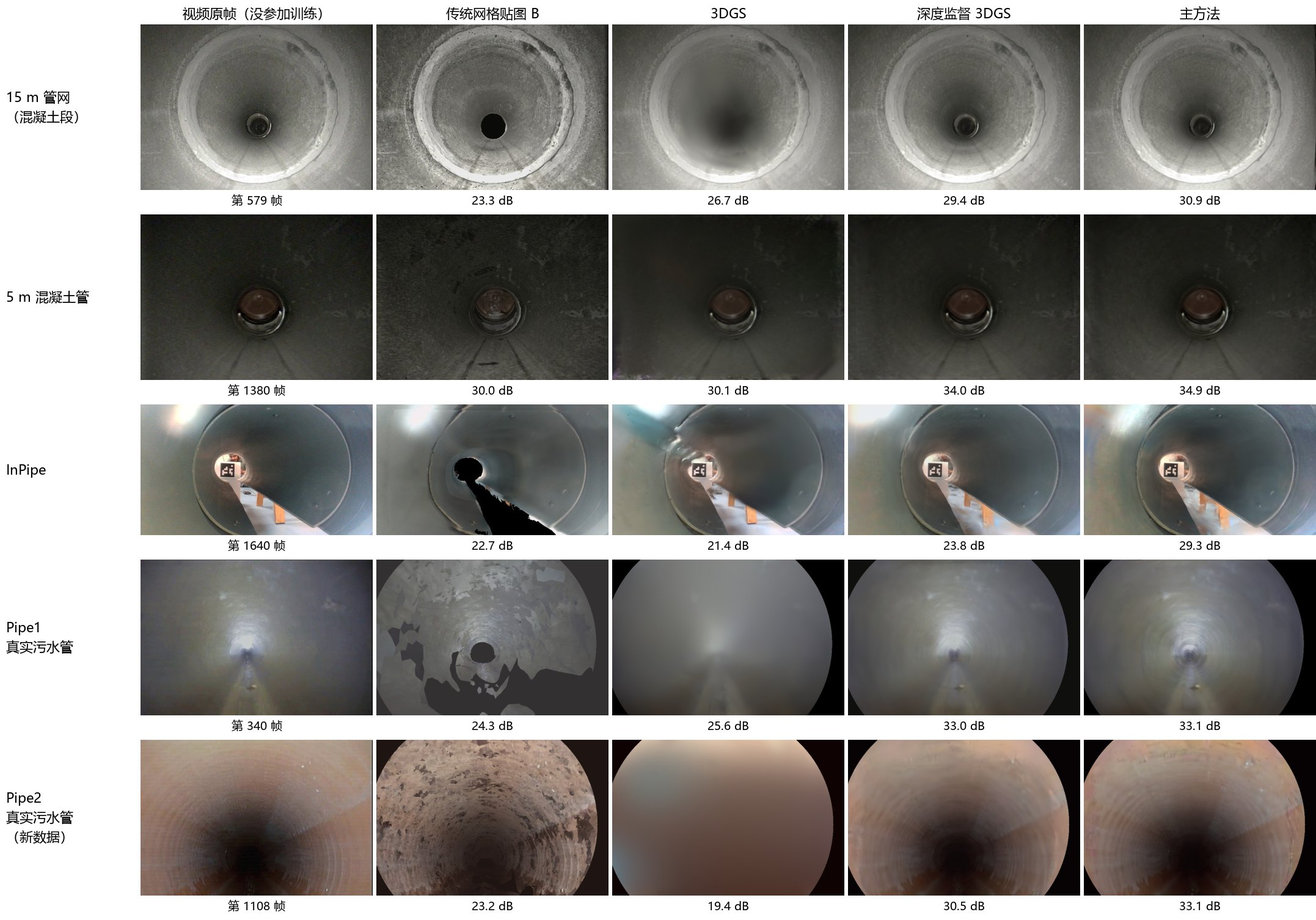
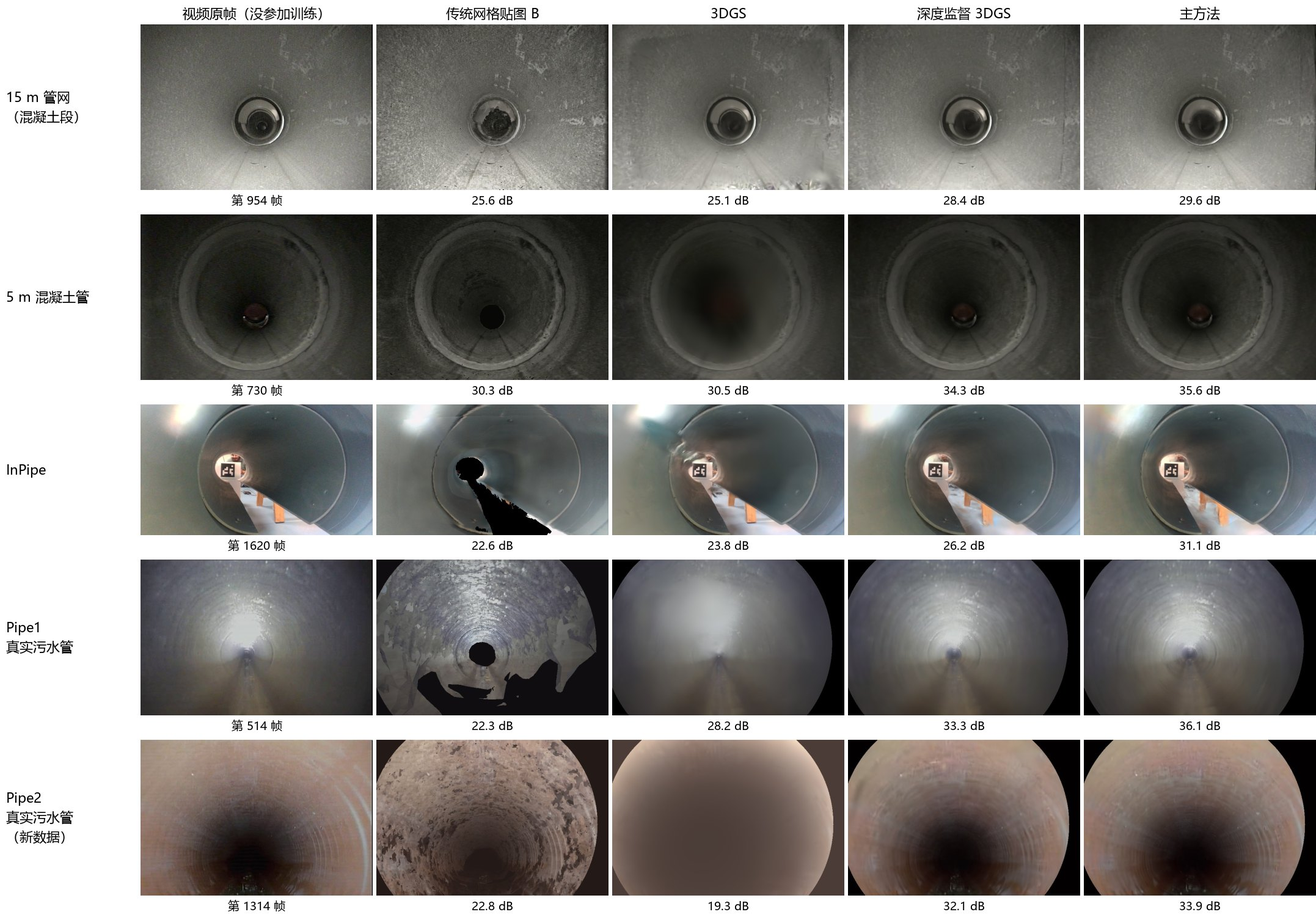
核对公开文档：数字逐项对照原始结果文件；改正训练时间与显存、去掉未实测的“实时渲染”、几何标志位置的标准差、补 5 m 管参照值；对比图改用同一次量尺 v2 评分的导出图，附图的来源说明与生成脚本

diff --git a/pipesplat/review/fig_compare_blocks.py b/pipesplat/review/fig_compare_blocks.py
@@ -1,0 +1,101 @@
+"""README figure docs/images/compare_blocks.jpg: for each data set one block frame (inside a 10 cm stretch left out of
+training, so no model saw a frame within 10 cm), shown as video | baseline B | 3DGS | depth-supervised 3DGS | main
+method, each labelled with its PSNR.
+
+The pictures are the scored images themselves: the dumps of a ruler-v2 scoring run (train_gs.py --eval-only --dump DIR
+--suffix _dump1102, every render with the gain / offset the scoring fitted), and the labels are the PSNR of that same
+run (DIR/per_frame_dump1102.csv). The frame of a data set is the block frame whose main - 3DGS PSNR gain is closest to
+the median gain over all block frames of that data set - a rule, not a choice. The script also reports how far the
+dumped scores are from the stored training-end scores (per_frame_r2.csv) and writes the selection to OUT_selection.txt.
+
+usage: python -I pipesplat/review/fig_compare_blocks.py OUT.jpg [--dump-root DIR] [--scene-root DATA=DIR ...]
+       --dump-root   DIR/<data>/<run>/ holds the dumps and per_frame_dump1102.csv (default GS_ROOT/review/figdump)
+       --scene-root  where <data>/<run>/per_frame_r2.csv is, per data set (default GS_ROOT/g0)
+"""
+import argparse
+import csv
+import os
+import sys
+
+import cv2
+import numpy as np
+from PIL import Image, ImageDraw, ImageFont
+
+sys.path.insert(0, os.path.join(os.path.dirname(os.path.dirname(os.path.dirname(os.path.abspath(__file__)))), "scripts"))
+import paths  # noqa: E402
+
+ROWS = [("15 m 管网|（混凝土段）", "concrete_lab", "run_3dgs", "run_3dgs_depth", "run_3dgs_depth_lamp_amb"),
+        ("5 m 混凝土管", "concrete_2", "run_3dgs", "run_3dgs_depth", "run_3dgs_depth_lamp_amb"),
+        ("InPipe", "inpipe_vision", "run_3dgs", "run_u_3dgs_depth", "run_u_3dgs_depth_lamp_amb"),
+        ("Pipe1|真实污水管", "sewer_pipe1", "run_3dgs", "run_u_3dgs_depth", "run_u_3dgs_depth_lamp_amb"),
+        ("Pipe2|真实污水管|（新数据）", "sewer_pipe2", "run_3dgs", "run_3dgs_depth", "run_main")]
+COLS = ["视频原帧（没参加训练）", "传统网格贴图 B", "3DGS", "深度监督 3DGS", "主方法"]
+PW, LW = 380, 230
+FONT = ImageFont.truetype("C:/Windows/Fonts/msyh.ttc", 22)
+FONT_S = ImageFont.truetype("C:/Windows/Fonts/msyh.ttc", 19)
+
+
+def table(path):
+    return {(r["tag"], int(r["frame"])): r for r in csv.DictReader(open(path, encoding="utf-8"))}
+
+
+def read(path):
+    return cv2.imdecode(np.fromfile(path, np.uint8), cv2.IMREAD_COLOR)
+
+
+def main():
+    ap = argparse.ArgumentParser(description=__doc__.split("\n")[0])
+    ap.add_argument("out")
+    ap.add_argument("--dump-root", default=os.path.join(paths.GS_ROOT, "review", "figdump"))
+    ap.add_argument("--scene-root", nargs="*", default=[], metavar="DATA=DIR")
+    a = ap.parse_args()
+    roots = dict(s.split("=", 1) for s in a.scene_root)
+    rows_img, report = [], []
+    for label, data, *runs in ROWS:
+        dumps = [os.path.join(a.dump_root, data, r) for r in runs]
+        tabs = [table(os.path.join(d, "per_frame_dump1102.csv")) for d in dumps]
+        for r, t in zip(runs, tabs):                 # the re-score must equal the stored training-end scores
+            stored = table(os.path.join(roots.get(data, os.path.join(paths.GS_ROOT, "g0")), data, r, "per_frame_r2.csv"))
+            diff = max(abs(float(t[k]["G_psnr"]) - float(stored[k]["G_psnr"])) for k in t if k in stored)
+            report.append(f"{data}/{r}: max |PSNR dump - stored| = {diff:.2e} dB over {len(t)} frames")
+        frames = sorted(f for (tag, f) in tabs[0] if tag == "block")
+        gains = np.array([float(tabs[2][("block", f)]["G_psnr"]) - float(tabs[0][("block", f)]["G_psnr"]) for f in frames])
+        fr = frames[int(np.argmin(np.abs(gains - np.median(gains))))]
+        panels = [read(os.path.join(dumps[0], f"block_{fr:06d}_real.jpg")), read(os.path.join(dumps[0], f"block_{fr:06d}_B.jpg"))]
+        panels += [read(os.path.join(d, f"block_{fr:06d}_G.jpg")) for d in dumps]
+        h = int(round(panels[0].shape[0] * PW / panels[0].shape[1]))
+        panels = [cv2.resize(p, (PW, h), interpolation=cv2.INTER_AREA) for p in panels]
+        texts = [f"第 {fr} 帧", f"{float(tabs[0][('block', fr)]['B_psnr']):.1f} dB"] + \
+                [f"{float(t[('block', fr)]['G_psnr']):.1f} dB" for t in tabs]
+        canvas = Image.new("RGB", (5 * PW + 4 * 6 + LW, h + 30), "white")
+        d = ImageDraw.Draw(canvas)
+        lines = label.split("|")                    # "|" separates the lines of a row label
+        for k_, ln in enumerate(lines):
+            d.text((10, h // 2 - 16 * len(lines) + 32 * k_), ln, font=FONT, fill="black")
+        for k, (p, t) in enumerate(zip(panels, texts)):
+            x = LW + k * (PW + 6)
+            canvas.paste(Image.fromarray(cv2.cvtColor(p, cv2.COLOR_BGR2RGB)), (x, 0))
+            d.text((x + PW // 2 - d.textlength(t, font=FONT_S) / 2, h + 3), t, font=FONT_S, fill="black")
+        rows_img.append(canvas)
+        report.append(f"{data}: {len(frames)} block frames, chose frame {fr}: main - 3DGS {gains[frames.index(fr)]:+.2f} dB "
+                      f"(median over the block frames {np.median(gains):+.2f}); B / 3DGS / depth / main = {', '.join(texts[1:])}")
+    W = rows_img[0].width
+    head = Image.new("RGB", (W, 40), "white")
+    dh = ImageDraw.Draw(head)
+    for k, c in enumerate(COLS):
+        x = LW + k * (PW + 6)
+        dh.text((x + PW // 2 - dh.textlength(c, font=FONT) / 2, 6), c, font=FONT, fill="black")
+    fig = Image.new("RGB", (W, 40 + sum(r.height + 10 for r in rows_img)), "white")
+    fig.paste(head, (0, 0))
+    y = 40
+    for r in rows_img:
+        fig.paste(r, (0, y))
+        y += r.height + 10
+    fig.save(a.out, quality=86, optimize=True)
+    report.append(f"{os.path.basename(a.out)}: {fig.size[0]} x {fig.size[1]} px, {os.path.getsize(a.out) // 1024} KB")
+    open(os.path.splitext(a.out)[0] + "_selection.txt", "w", encoding="utf-8").write("\n".join(report) + "\n")
+    print("\n".join(report))
+
+
+if __name__ == "__main__":
+    main()

diff --git a/pipesplat/review/fig_models_outside.py b/pipesplat/review/fig_models_outside.py
@@ -1,0 +1,79 @@
+"""README figure docs/images/models_outside.jpg: the textured meshes baked from the main model (bake_vhf.py --two-light
+--source video), one row per data set: the whole pipe from outside (whole.png), a cut-open close-up (detail1.png) and a
+view from inside (inside0.png) - the per-view pictures written by pipe_figures.py.
+
+usage: python -I pipesplat/review/fig_models_outside.py OUT.jpg --fig-dir DATA=DIR [--fig-dir DATA=DIR ...]
+       DATA one of concrete_lab, concrete_2, inpipe, sewer_pipe1, sewer_pipe2 (rows in this order, missing ones left out);
+       DIR  the pipe_figures.py output folder of that data set
+"""
+import argparse
+import os
+
+import cv2
+import numpy as np
+from PIL import Image, ImageDraw, ImageFont
+
+ROWS = [("concrete_lab", "15 m 管网（混凝土段，约 4.3 m）"),
+        ("concrete_2", "5 m 混凝土管（约 4.2 m）"),
+        ("inpipe", "InPipe（两节管 + 弯头，有开缝）"),
+        ("sewer_pipe1", "Pipe1 真实污水管（约 10.6 m）"),
+        ("sewer_pipe2", "Pipe2 真实污水管（新数据，约 3.9 m；喇叭形 = 单目尺度漂移）")]
+FONT = ImageFont.truetype("C:/Windows/Fonts/msyh.ttc", 24)
+W1, W2, W3, H = 1000, 640, 640, 470
+
+
+def crop_white(img, pad=20):
+    """trim the white margin around the rendered pipe"""
+    ys, xs = np.nonzero(np.any(img < 245, axis=2))
+    return img if len(ys) == 0 else img[max(ys.min() - pad, 0):ys.max() + pad, max(xs.min() - pad, 0):xs.max() + pad]
+
+
+def fit(img, w, h):
+    s = min(w / img.shape[1], h / img.shape[0])
+    im = cv2.resize(img, (int(img.shape[1] * s), int(img.shape[0] * s)), interpolation=cv2.INTER_AREA)
+    canvas = np.full((h, w, 3), 255, np.uint8)
+    y, x = (h - im.shape[0]) // 2, (w - im.shape[1]) // 2
+    canvas[y:y + im.shape[0], x:x + im.shape[1]] = im
+    return canvas
+
+
+def read(path):
+    return cv2.imdecode(np.fromfile(path, np.uint8), cv2.IMREAD_COLOR)
+
+
+def main():
+    ap = argparse.ArgumentParser(description=__doc__.split("\n")[0])
+    ap.add_argument("out")
+    ap.add_argument("--fig-dir", nargs="+", required=True, metavar="DATA=DIR")
+    a = ap.parse_args()
+    dirs = dict(s.split("=", 1) for s in a.fig_dir)
+    rows = []
+    for data, label in ROWS:
+        if data not in dirs:
+            continue
+        d = dirs[data]
+        gap = np.full((H, 20, 3), 255, np.uint8)
+        row = np.hstack([fit(crop_white(read(os.path.join(d, "whole.png"))), W1, H), gap,
+                         fit(crop_white(read(os.path.join(d, "detail1.png"))), W2, H), gap,
+                         fit(read(os.path.join(d, "inside0.png")), W3, H)])
+        img = Image.new("RGB", (row.shape[1], H + 44), "white")
+        ImageDraw.Draw(img).text((16, 6), label, font=FONT, fill="black")
+        img.paste(Image.fromarray(cv2.cvtColor(row, cv2.COLOR_BGR2RGB)), (0, 44))
+        rows.append(img)
+    head = Image.new("RGB", (rows[0].width, 44), "white")
+    dh = ImageDraw.Draw(head)
+    for x, t in ((W1 // 2, "带纹理网格：从管外看"), (W1 + 20 + W2 // 2, "剖开的局部（放大）"), (W1 + W2 + 40 + W3 // 2, "管内视角")):
+        dh.text((x - dh.textlength(t, font=FONT) / 2, 6), t, font=FONT, fill="black")
+    fig = Image.new("RGB", (rows[0].width, 44 + sum(r.height for r in rows)), "white")
+    fig.paste(head, (0, 0))
+    y = 44
+    for r in rows:
+        fig.paste(r, (0, y))
+        y += r.height
+    fig = fig.resize((fig.width * 3 // 4, fig.height * 3 // 4), Image.LANCZOS)
+    fig.save(a.out, quality=84, optimize=True)
+    print(a.out, fig.size, os.path.getsize(a.out) // 1024, "KB")
+
+
+if __name__ == "__main__":
+    main()

diff --git a/docs/MODEL.md b/docs/MODEL.md
@@ -17,7 +17,7 @@
 | | 内容 |
 |---|---|
 | 输入 | 一段管道视频；相机内参（棋盘格标定，或"等径直管 + 一段已知行程"标定）；可选：画面计数器 / 里程真值、管径 |
-| 输出 | 高斯模型 `model.pt`（任意位姿实时渲染）和通用 3DGS `.ply`；带纹理网格 OBJ（从管外看）；管壁展开图；管径 / 椭圆度沿程；每帧评分 |
+| 输出 | 高斯模型 `model.pt`（任意位姿渲染）和通用 3DGS `.ply`；带纹理网格 OBJ（从管外看）；管壁展开图；管径 / 椭圆度沿程；每帧评分 |
 | 代码 | 前端 `scripts/vision/`（Windows）；高斯部分 `pipesplat/`（WSL + CUDA）；一条命令跑完：`scripts/pipeline.py` |
 | 主方法的训练命令 | `train_gs.py SCENE OUT --baseline 3dgs --baseline-depth 1.0 --lamp --lamp-smooth-mm 20 --lamp-ambient` |
 
@@ -120,7 +120,7 @@ flowchart TB
 | 密度控制 | gsplat DefaultStrategy（克隆、分裂、剪枝），第 15 000 次迭代后停止；球谐阶数每 1000 次迭代升一阶，到 3 阶 | `strategy` |
 | 留出 | 两段 10 cm 的整段留出帧不参加训练（`block_idx`） | `train` |
 | 数值保护 | 非有限的损失跳过这一步，非有限的梯度置零，并计数写进日志 | 训练循环 |
-| 资源 | RTX 5060 Ti（8 GB）上每个模型 30–80 分钟，显存峰值 ≤ 约 4.5 GB；稠密点 > 2.5 M 时用 `--points-every 2` | — |
+| 资源 | RTX 5060 Ti（8 GB）上实测（`summary_r2.json` 的 `train_minutes`、`peak_GB`，3 万次迭代，不含载入和评分的几分钟）：主方法 24–63 分钟、显存峰值 2.8–5.6 GB（9 次训练）；3DGS 10–20 分钟；深度监督 3DGS 21–32 分钟；稠密点 > 2.5 M 时用 `--points-every 2` | — |
 
 **只用主体框架会怎样**（3 个种子，PSNR dB；四组测试的定义见 [EVALUATION.md](EVALUATION.md)）：
 
@@ -134,7 +134,7 @@ flowchart TB
 渲染深度错 21–27 %（15 m）、44–59 %（5 m）、InPipe 12 / 26 %、Pipe1 85 / 67 %（管内浮着一层"雾"）。
 贴着训练轨迹时画面很好，一离开轨迹就崩：相机只沿管轴前进，新视角只在训练轨迹附近受约束。
 
-**为什么用 3DGS 作主体**：高斯是显式的点，能直接从 MVS 点初始化、直接加深度监督和成像模型；训练 30–80 分钟、实时渲染；最常用的基线。
+**为什么用 3DGS 作主体**：高斯是显式的点，能直接从 MVS 点初始化、直接加深度监督和成像模型；主方法训练 24–63 分钟（本机）；3DGS 本身是为实时渲染设计的（Kerbl 等 2023），本项目没有专门测渲染速度；最常用的基线。
 插件与表示方式无关：锚定面元与 3DGS 只差约 0.1 dB，深度监督 2DGS 与深度监督 3DGS 同一水平，所以换主体框架不改变结论。
 
 ---
@@ -257,7 +257,7 @@ flowchart TB
 | 带纹理网格 OBJ | 管壁高度场网格（再按模型深度径向微调 ±5 mm）；每个纹素在最清楚的几帧里按"帧 = 增益 × (车灯因子 × 反照率 + 环境光) + 偏移"做最小二乘求反照率；`texture.png` = 典型车灯 × 反照率 + 环境光 | `pipesplat/bake_vhf.py --two-light --source video` | 比高斯模型低 5–10 dB（静态贴图装不下随相机走的车灯明暗）；从管外看用它，管内画质以高斯模型为准 |
 | 管壁展开图 D2 | 训练位姿渲染模型的 0 阶颜色（不乘车灯、不加曝光），在 1 mm 网格上多视角加权烘焙 | `pipesplat/albedo_map.py`、`review/albedo_compare.py` | 15 m 管网 4 次巡检各自训练，纹理 NCC 0.62–0.73，带车灯模型的 6 对全部更高 |
 | 效果图 | 整体、三视图、剖切、展开图、留出帧对照 | `pipesplat/review/pipe_figures.py` | `scripts/pipeline.py` 的 figures 阶段；例子见 [images/models_outside.jpg](images/models_outside.jpg)、[images/unwrapped_concrete_2.jpg](images/unwrapped_concrete_2.jpg) |
-| 几何 D3 | 每 5 cm 截面鲁棒圆拟合管径；圆内点再做 Fitzgibbon 直接最小二乘椭圆，椭圆度按 ASTM F1216 附录 X1；重复性按 ISO 5725 | `scripts/analysis/geometry_repeat.py` | 5 m 管 5 次独立重建：管径 309.6 ± 4.6 mm（标称 300），逐截面 s_r 8.2 mm，椭圆度 0.3–0.4 % |
+| 几何 D3 | 每 5 cm 截面鲁棒圆拟合管径；圆内点再做 Fitzgibbon 直接最小二乘椭圆，椭圆度按 ASTM F1216 附录 X1；重复性按 ISO 5725 | `scripts/analysis/geometry_repeat.py` | 5 m 管 5 次独立重建：各次管径中位数 305–315 mm（均值 309.6、标准差 4.6 mm；标称 300），逐截面 s_r 8.2 mm，椭圆度中位 0.32–0.41 % |
 | 多次巡检联合训练 D1 | 参考巡检之外再加一次巡检的帧一起训练 | `pipesplat/export_multi.py` | 巡检之间灯光不同时有益：15 m 管网在从未用过的巡检上 +0.36 / +0.24 dB（帧数相同的对照）；同档灯光只有其 25–60 %，5 m 管（同档灯光）为 0 |
 
 ---

diff --git a/README.md b/README.md
@@ -12,7 +12,7 @@
 1. **前端**：标定相机内参并固定 → OpenMVG 增量式 SfM 得到每帧位姿 → OpenMVS 得到稠密点云和"实测管壁"；
 2. **模型**：在这些位姿和管壁之上训练 **3D 高斯泼溅（3DGS）**，加两个可插拔模块：
    **稠密深度监督**（让几何对）和**近场照明模型**（车灯的平方反比 + Lambert 余弦 + 平场增益图 + 环境光项 + 每帧曝光，让明暗对）；
-3. **输出**：可在任意位姿实时渲染的高斯模型（通用 3DGS `.ply`）、从管外看的带纹理网格、管壁展开图、管径 / 椭圆度沿程；
+3. **输出**：可在任意位姿渲染的高斯模型（通用 3DGS `.ply`）、从管外看的带纹理网格、管壁展开图、管径 / 椭圆度沿程；
 4. **评测**：序列内留出帧、整段拿掉的 10 cm 管段、同一管道的其他次巡检（换灯光、换速度），所有方法在同一批像素上比较。
 
 这样的模型在离开训练轨迹、换一次巡检、换一档灯光时仍能预测画面，而普通 3DGS 只在贴着训练轨迹时好。
@@ -50,7 +50,7 @@ AI 工具抓取纯文本时用 `https://raw.githubusercontent.com/Bridge-coder/P
 ### 效果图
 
 **没参加训练的画面**：每段数据一帧整段留出帧（这一帧前后 10 cm 内都没有训练帧），从左到右是视频原帧、传统网格贴图 B、3DGS、深度监督 3DGS、主方法，下方是这一帧的 PSNR。
-每段取"主方法比 3DGS 的提升最接近中位数"的那一帧，不是挑的。离开训练轨迹时，3DGS 变成一团雾，网格贴图有空洞和色块。
+每段取"主方法比 3DGS 的提升最接近中位数"的那一帧（在该段全部整段留出帧里选），不是挑的；图片就是被评分的那张，与数字出自同一次评分（来源和选帧记录见 [docs/images/SOURCES.md](docs/images/SOURCES.md)）。离开训练轨迹时，3DGS 变成一团雾，网格贴图有空洞和色块。
 
 ![五段数据的整段留出帧：视频原帧 / 传统网格贴图 / 3DGS / 深度监督 3DGS / 主方法](docs/images/compare_blocks.jpg)
 
@@ -156,7 +156,8 @@ PipeRecon3D/
 │  ├─ export_ply.py bake_vhf.py meshraster.py albedo_map.py   .ply、带纹理网格、网格光栅化、展开图
 │  ├─ env.sh, setup/                 WSL 路径；环境安装脚本（系统包、CUDA 12.8、Python 环境、编译 gsplat）
 │  └─ review/                        评测与作图：paired_stats.py seeds_table.py table_x5.py score_xrun.py albedo_compare.py
-│                                    gain_spread.py dump_frames.py compare_video.py pipe_figures.py queue.sh export_lab.ps1
+│                                    gain_spread.py dump_frames.py compare_video.py pipe_figures.py queue.sh export_lab.ps1；
+│                                    fig_compare_blocks.py fig_models_outside.py（README 的图）
 └─ docs/
    ├─ MODEL.md                       模型说明：结构、公式、超参数、每个模块的作用和证据、代码地图
    ├─ PIPELINE.md                    全流程运行：环境、新视频的每一步、Pipe2 端到端记录、复现四段实验数据、多次巡检评测

diff --git a/docs/EVALUATION.md b/docs/EVALUATION.md
@@ -72,7 +72,7 @@
 | 深度监督 3DGS + 车灯模型（不含环境光项） | | 34.59 ± 0.04 | 34.65 ± 0.08 | 33.85 ± 0.04 | 34.10 ± 0.06 |
 | 锚定面元 + 车灯模型（不含环境光项） | | 34.54 ± 0.04 | 34.52 ± 0.06 | 33.84 ± 0.05 | 34.13 ± 0.08 |
 | **主方法** | | **35.10 ± 0.06** | **34.91 ± 0.04** | **34.01 ± 0.02** | **34.30 ± 0.04** |
-| 参照：对齐后的下一帧 | | — | — | 34.99 | 34.96 |
+| 参照：对齐后的下一帧 | | 34.88 | 34.67 | 34.99 | 34.96 |
 
 单种子另跑过的对照（种子 0）：2DGS（加数值保护）15 m 管网 28.86 / 26.49 / 27.48 / 26.40；深度监督 2DGS 29.17 / 28.42 / 28.74 / 28.45（与深度监督 3DGS 同一水平）。
 主方法的 LPIPS：15 m 管网 0.436 / 0.442 / 0.627 / 0.621，5 m 混凝土管 0.431 / 0.446 / 0.468 / 0.460，八组都低于深度监督 3DGS。
@@ -136,8 +136,8 @@
   对 r1 的 3 个种子都是 +0.24…+0.42 dB。同一档灯光的第二次巡检只有其 25–60 %；5 m 混凝土管（5 次同一档灯光）帧数相同的对照 0.00、全帧 −0.2…−0.3 dB（加倍迭代后持平）。
   结论：巡检之间灯光不同时有益。（这组实验用锚定面元 + 车灯模型。）
 - **展开图可重复性（D2）**：15 m 管网 r1–r4 各自训练，展开图纹理 NCC 0.62–0.73；带车灯模型 0.657、不带 0.596，6 对全部更高。
-- **几何可重复性（D3）**：5 m 混凝土管 5 次独立重建，管径中位 309.6 ± 4.6 mm（标称 300），逐截面 s_r 8.2 mm，椭圆度 0.3–0.4 %（s_r 0.25 个百分点），
-  1.87 m 处管壁标志的位置标准差 1.6 cm。管径绝对值依赖按计数器标定的焦距，不是独立测量；独立参照只有 InPipe（RealSense 深度 107.5 / 101.4 mm 对视觉管壁 109.4 / 101.9 mm）。
+- **几何可重复性（D3）**：5 m 混凝土管 5 次独立重建，各次管径中位数 305–315 mm（均值 309.6、标准差 4.6 mm；标称 300），逐截面 s_r 8.2 mm，椭圆度中位 0.32–0.41 %（s_r 0.25 个百分点）；
+  1.87 m 处管壁亮带的沿管位置在 5 次之间的标准差约 2 cm（1.6–1.9 cm，取决于截面亮度峰值的插值方法）。管径绝对值依赖按计数器标定的焦距，不是独立测量；独立参照只有 InPipe（RealSense 深度 107.5 / 101.4 mm 对视觉管壁 109.4 / 101.9 mm）。
 
 ## 8. 新数据端到端测试：Pipe2（2026-11-02）
 

diff --git a/docs/images/SOURCES.md b/docs/images/SOURCES.md
@@ -1,0 +1,12 @@
+# 图的来源
+
+每张图用了哪些模型、哪次评分、怎么选的帧、用什么脚本生成。模型目录指作者机器上的 `GS_ROOT/g0/<数据>/<训练名>/`
+（主方法的模型没有上传，见 [../DATA.md](../DATA.md) 第 6 节）。图由数据集画面生成，沿用数据集的许可：
+Sheffield 管道视频、InPipe-SLAM 为 CC BY 4.0，真实污水管 Pipe1、Pipe2 为 CC BY-NC-SA 4.0（仅非商业用途）。
+
+| 图 | 内容 | 来源 | 生成 |
+|---|---|---|---|
+| `compare_blocks.jpg` | 每段数据一帧整段留出帧：视频原帧 / 对照 B / 3DGS / 深度监督 3DGS / 主方法，标 PSNR | 15 个模型（每段数据 3 个，种子 0）：15 m 管网、5 m 管 `run_3dgs`、`run_3dgs_depth`、`run_3dgs_depth_lamp_amb`；InPipe、Pipe1 `run_3dgs`、`run_u_3dgs_depth`、`run_u_3dgs_depth_lamp_amb`；Pipe2 `run_3dgs`、`run_3dgs_depth`、`run_main`。图片和数字取自同一次量尺 v2 评分（2026-11-02，`train_gs.py --eval-only --dump DIR --suffix _dump1102`），图片就是被评分的那张（含评分时拟合的每帧增益 + 偏移） | `pipesplat/review/fig_compare_blocks.py`；选帧规则：该段数据全部整段留出帧里，"主方法 − 3DGS"的 PSNR 差最接近中位数的那一帧。选出的帧、每个模型的重评分与原存档的差别记录在 `compare_blocks_selection.txt` |
+| `models_outside.jpg` | 主方法烘焙的带纹理网格：从管外看 / 剖开的局部 / 管内视角 | `bake_vhf.py --two-light --source video`（模型 = 各段数据的主方法），每个视角的图由 `pipesplat/review/pipe_figures.py` 画出（`whole.png`、`detail1.png`、`inside0.png`） | `pipesplat/review/fig_models_outside.py OUT --fig-dir 数据=pipe_figures 输出目录 …` |
+| `unwrapped_concrete_2.jpg` | 5 m 混凝土管的管壁展开图 | 同上的烘焙网格（5 m 管主方法），`pipe_figures.py` 的 `fig4_unwrapped.jpg` | 缩放到 1600 px 宽 |
+| `pipe2_heldout_frames.jpg` | Pipe2 没参加训练的帧：视频原帧 / 主方法高斯模型 / 带纹理网格，标 PSNR | `pipe_figures.py --model-run run_main` 的 `fig5_frames.jpg`：图片是主方法和网格各自评分时写出的三联图（量尺 v2），数字取自同一次评分的逐帧表 | 缩放到 1400 px 宽，去掉底部标题行 |

diff --git a/docs/PIPELINE.md b/docs/PIPELINE.md
@@ -16,7 +16,7 @@
 | gt | Windows | 真值 → `counter.csv`；`eval_gt_scale.py` | 定位误差、推出的管径 | 1 分钟 |
 | scene | Windows | `pipesplat/export_g0.py` | `SCENE/scene.npz` | 3–5 分钟 |
 | surface | Windows + WSL | `export_surface.py`（OpenMVS 网格，总是做）；选 `vhf` 时再 `vision_surface.py`（管道先验，建在网格之上） | `surface.npz`、`surface_vhf.npz` | 1–5 分钟 |
-| train | WSL（GPU） | `pipesplat/train_gs.py` 主方法 + 评分 | `SCENE/run_main/` | 30–80 分钟 |
+| train | WSL（GPU） | `pipesplat/train_gs.py` 主方法 + 评分 | `SCENE/run_main/` | 25–65 分钟（本机 9 次主方法训练 24–63 分钟 + 评分） |
 | export | WSL | `export_ply.py`、`bake_vhf.py` | `.ply`、带纹理 OBJ | 10–20 分钟 |
 | figures | Windows | `pipesplat/review/pipe_figures.py` | 效果图 | 5 分钟 |
 

diff --git a/docs/DATA.md b/docs/DATA.md
@@ -108,4 +108,4 @@ GS_ROOT/g0/<名字>/                   高斯部分的场景目录（--scene 指
 | `v2.0-results` | 锚定高斯模型（早期最好模型）、烘焙网格、对比视频、中间文件（管壁、中心线、灯光图）、**InPipe 的场景文件** | InPipe 的场景（`inpipe_172011_scene.zip`）和中间文件；灯光图 `lamp_maps.zip` |
 | `v2.1-results` | 第二轮的 Z1 模型（锚定 + 车灯）、InPipe 两种光源烘焙网格（上传未完成：缺 8 个分卷） | 历史记录 |
 
-主方法的模型没有上传（训练一次 30–80 分钟，按 PIPELINE.md 重新训练）。
+主方法的模型没有上传（本机训练一次 24–63 分钟，按 PIPELINE.md 重新训练）。

diff --git a/docs/EXTENDING.md b/docs/EXTENDING.md
@@ -85,5 +85,5 @@
 
 ## 7. 机器条件（作者的机器）
 
-Ryzen 5 5600（6 核）、16 GB 内存、RTX 5060 Ti 8 GB；WSL 分 8 GB 内存。单个模型训练 30–80 分钟、显存峰值约 4–4.5 GB；
-三种子 × 四段数据 × 一个方法约 6–8 小时 GPU。OpenMVS 稠密 500 帧约 30–60 分钟 CPU。
+Ryzen 5 5600（6 核）、16 GB 内存、RTX 5060 Ti 8 GB；WSL 分 8 GB 内存。单个模型训练（3 万次迭代）：主方法 24–63 分钟、3DGS 10–20 分钟，显存峰值最高 5.6 GB（Pipe1 主方法）；
+一个方法在四段数据上各训 3 个种子（12 次）约 5–13 小时 GPU。OpenMVS 稠密重建 400–500 帧约 25–45 分钟 CPU（Pipe2 413 帧 25 分钟）。
